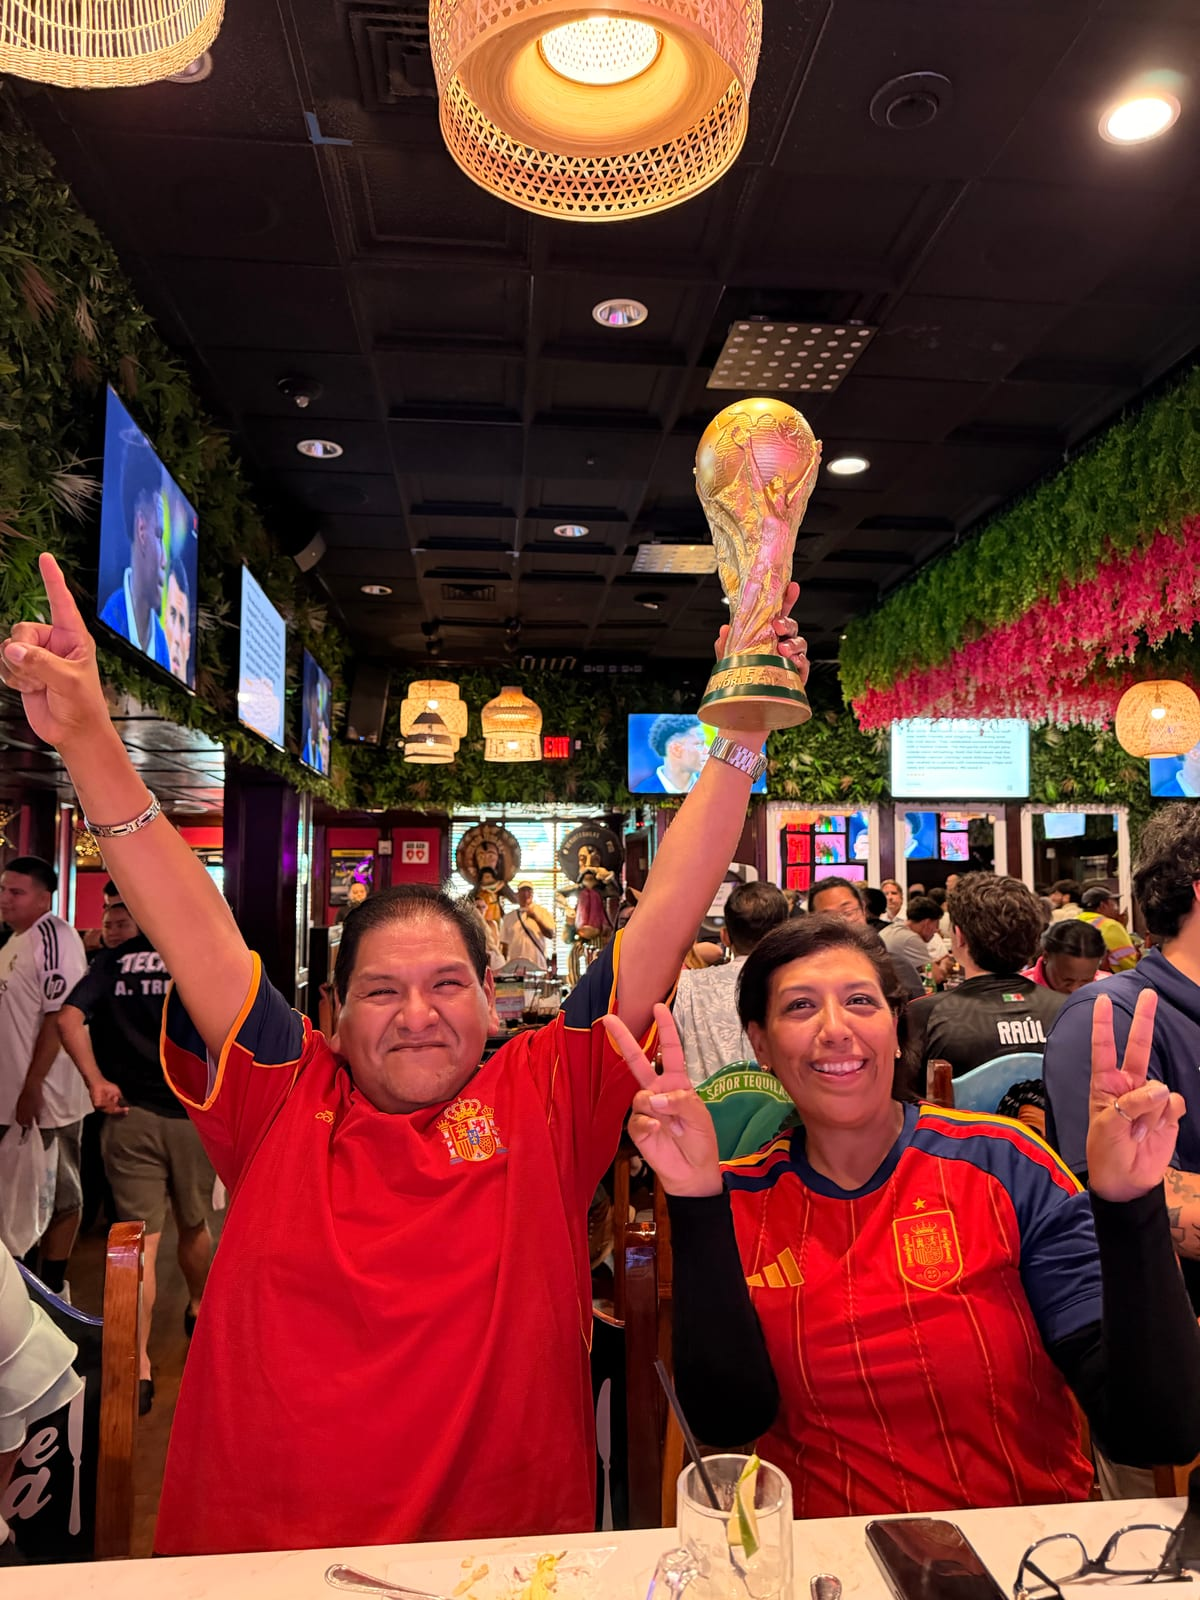
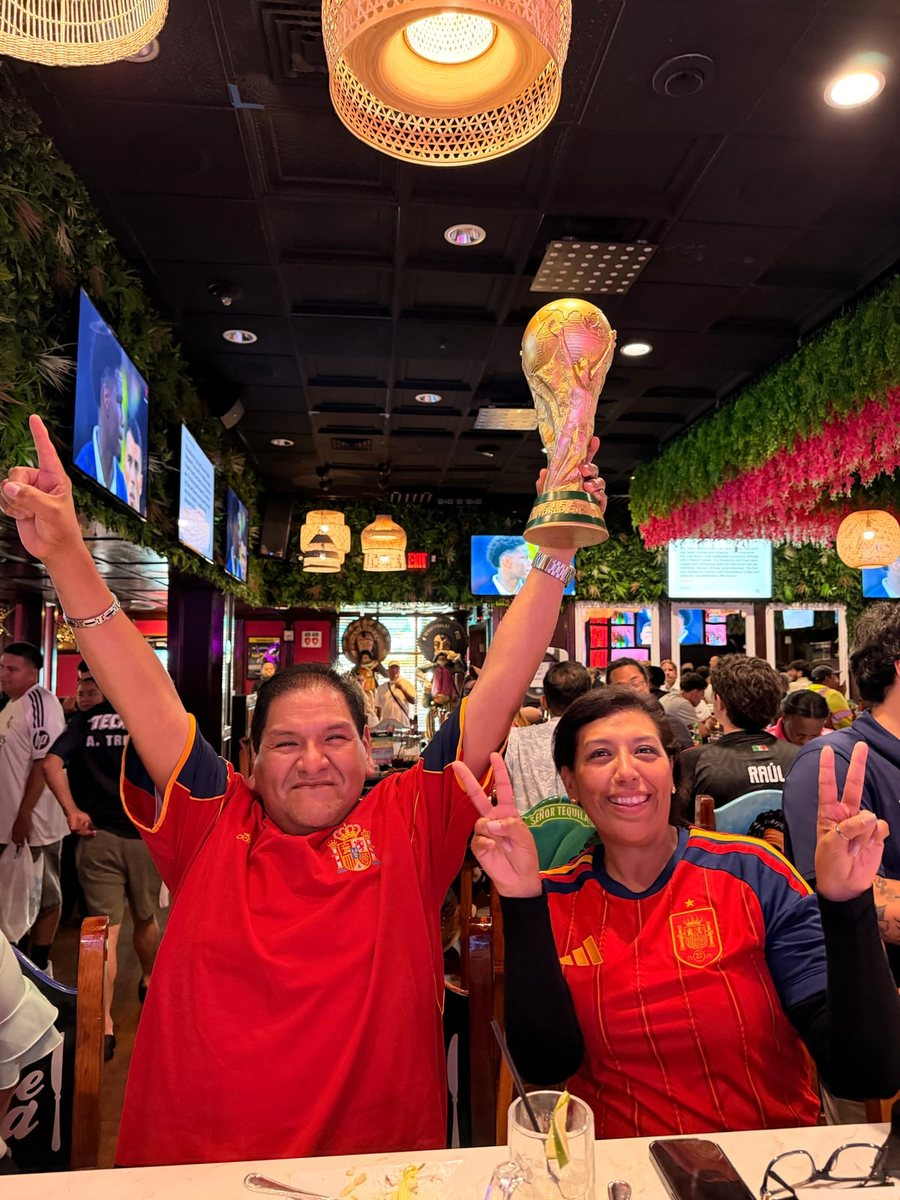
perf: give every page's LCP element priority, and resize the oversized game day hero
The homepage treatment from entry 50 applied site-wide, with the LCP element on each of the 22
pages confirmed by a largest-contentful-paint PerformanceObserver on the deployed page rather
than assumed to be the hero. That assumption had already been wrong once on the homepage, and
it was wrong again in eight more places.

13 pages have an <img> LCP, all previously loading="lazy" with no fetchpriority: now eager and
fetchpriority="high", matched inside the hero section so the same photograph used further down
keeps its lazy loading. 5 pages have a CSS background LCP, where a preload is the only lever.
3 pages have a text LCP and got nothing, correctly.

The preload is a route-keyed map in Base.astro rather than 19 hand-written tags.

The two heroes asked about have opposite problems. game-day-hero.jpg was genuinely oversized
1.7x, a 1200x1600 portrait in a 412x379 landscape box; resized to 900x1200, 277KB to 210KB. The
/private-parties hero is under-resolved at 0.57x instead, and is 95KB on disk rather than the
237KB reported earlier: that figure was the LCP entry's size field, which is the element's area
in CSS pixels, 412 x 576, not bytes.

All 22 pages checked afterwards: no 404s, no broken images.

See DESIGN-DEBT.md entry 53.

diff --git a/DESIGN-DEBT.md b/DESIGN-DEBT.md
@@ -1301,3 +1301,39 @@ will point at this site's own homepage, from a button inside the gift card secti
 link to itself. The right destination is not known here: the brief lists `/gift-cards/` as an
 old URL and leaves open whether any `/shop/*` path is tied to a live gift card integration.
 **This needs an answer before the 28th.** Guessing a destination would risk a revenue path.
+
+## 53. The LCP element of every page, 15 September
+
+Entry 50 gave the homepage's LCP image priority. The same treatment is applied site-wide, with
+the element on every page confirmed by a `largest-contentful-paint` PerformanceObserver on the
+deployed page under mobile throttling rather than assumed to be the hero. That assumption was
+already wrong once, on the homepage, where the LCP turned out to be the backdrop behind the
+copy rather than the panel photograph.
+
+It was wrong again in eight more places. The twenty-two pages fall into three groups:
+
+- **13 pages with an `<img>` LCP.** All were `loading="lazy"` with no `fetchpriority`. Now
+  eager and `fetchpriority="high"`, matched inside the hero section so the same photograph
+  used further down the page keeps its lazy loading.
+- **5 pages with a CSS background LCP:** `/menu`, `/takeout-delivery`, `/happy-hour`,
+  `/taco-tuesday`, `/game-day`. There is no tag to mark, so the preload is the only lever.
+- **3 pages with a text LCP:** `/our-story`, `/mexican-restaurant-gaithersburg-md`,
+  `/contact`. Nothing to preload, and nothing was added.
+
+The preload is a route-keyed map in `Base.astro` rather than 19 hand-written tags, so a page
+cannot quietly acquire the wrong one.
+
+**The sizing question, answered.** The two heroes asked about have opposite problems:
+
+- `/game-day`, `game-day-hero.jpg`, was genuinely **oversized 1.7x**: a 1200x1600 portrait in
+  a 412x379 landscape box, which needs 721x663 at a phone's 1.75 DPR. Resized to 900x1200,
+  277KB to 210KB, keeping margin at every phone DPR.
+- `/private-parties`, `24e322da4fd1060e.jpg`, is the opposite: **under-resolved at 0.57x**,
+  860x573 where the box wants 721x1008. It is 95KB on disk, not the 237KB reported earlier;
+  that number was the LCP entry's `size` field, which is the element's area in CSS pixels,
+  412 x 576 = 237,312, not bytes. Correcting that here.
+
+Five more heroes are under-resolved between 0.57x and 0.79x: `/birria-tacos`, `/margaritas`,
+`/karaoke`, `/tequila-bar` and `/late-night`. They are the design's own assets and cannot be
+sharpened by resampling; replacing them needs the original captures. Soft on a retina phone,
+correct everywhere else.
